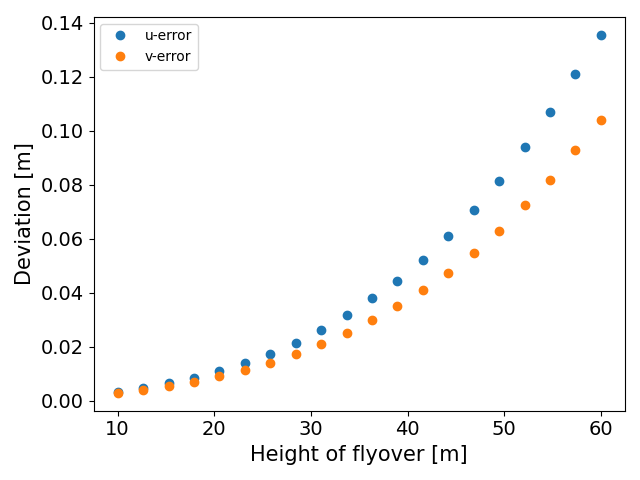
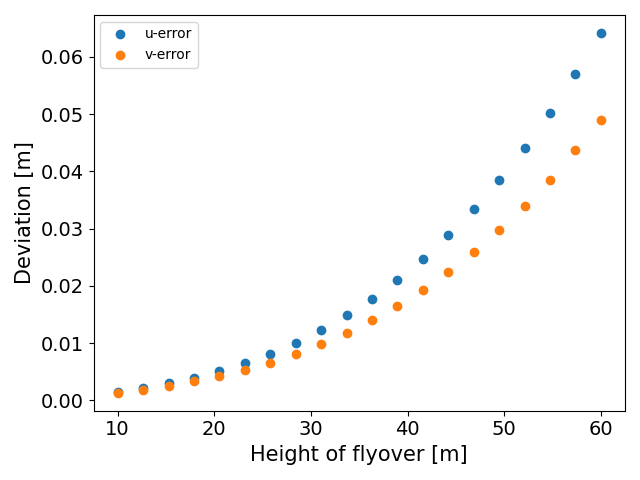
Relation between deviation and parameters

diff --git a/report_code/devToPars3D.py b/report_code/devToPars3D.py
@@ -20,13 +20,7 @@ def comp3D(radiation, detector, source, option1, option2):
     
     fig, ax = plt.subplots(subplot_kw={"projection": "3d"})
 
-    I, J = np.meshgrid(I, J)
-
-    print(I)
-    print('\n')
-    print(J)
-    print('\n')
-    print(dus)
+    J, I = np.meshgrid(J, I)
 
     # Plot the surface.
     surf = ax.plot_surface(I, J, dus, cmap=cm.coolwarm, linewidth=0, antialiased=False)
@@ -37,7 +31,15 @@ def comp3D(radiation, detector, source, option1, option2):
     # Add a color bar which maps values to colors.
     fig.colorbar(surf, shrink=0.5, aspect=5)
 
+    plt.tight_layout()
     plt.show()
+
+    # # Test out if the graph is in accordance to the two-dimensional graphs in devToPars.py
+    # plt.plot(option2['range'], dus[-1], "o") # index selectas at which height you want the graph
+
+    # plt.title("Test")
+    # plt.tight_layout
+    # plt.show()
 
 testSource = point_source(X/2, Y/2, A_max, A_max, r0_max, r0_max)
 testSource = [-14.47, -8.73, 15000, 50]
@@ -46,7 +48,7 @@ print("A0 [Bq]:", testSource[-2], "r0 [m]:", testSource[-1])
 
 option_K = {'range': np.linspace(0, 0.8, 20), 'name': 'detector_constant', 'xlabel': "Detector coefficient []", 'saveAs': 'err_K.png'}
 option_h = {'range': np.linspace(10, 60, 20), 'name': 'h', 'xlabel': "Height of flyover [m]", 'saveAs': 'err_h.png'}
-option_dt = {'range': np. linspace(1, 60, 20), 'name': 'dt', 'xlabel': "Time of measurement at each grid point [s]", 'saveAs': 'err_dt.png'}
+option_dt = {'range': np. linspace(1, 60, 20), 'name': 'dt', 'xlabel': "Measurement duration [s]", 'saveAs': 'err_dt.png'}
 
 comp3D(radiation, detector, testSource, option_h, option_dt)
 # comp3D(radiation, detector, testSource, option_K, option_dt)

diff --git a/report_code/devToPars.py b/report_code/devToPars.py
@@ -10,6 +10,8 @@ def comp(radiation, detector, source, option):
     I = option['range']
     dus = []
     dvs = []
+    # default values
+    detector['detector_constant'] = 0.1; detector['h'] = 20; detector['dt'] = 20
     for i in I:
         detector[option['name']] = i
         data = combination(radiation, detector, flyover, locationCF, source)
@@ -30,14 +32,14 @@ def comp(radiation, detector, source, option):
     plt.show()
 
 testSource = point_source(X/2, Y/2, A_max, A_max, r0_max, r0_max)
-testSource = [-8.73, -14.47, 15000, 50]
+testSource = [-14.47, -8.73, 15000, 50]
 print("u [m]:", testSource[0], "v [m]:", testSource[1])
 print("A0 [Bq]:", testSource[-2], "r0 [m]:", testSource[-1])
 
 option_K = {'range': np.linspace(0, 0.8, 20), 'name': 'detector_constant', 'xlabel': "Detector coefficient []", 'saveAs': 'err_K.png'}
 option_h = {'range': np.linspace(10, 60, 20), 'name': 'h', 'xlabel': "Height of flyover [m]", 'saveAs': 'err_h.png'}
-option_dt = {'range': np. linspace(1, 60, 20), 'name': 'dt', 'xlabel': "Time of measurement at each grid point [s]", 'saveAs': 'err_dt.png'}
+option_dt = {'range': np. linspace(1, 60, 20), 'name': 'dt', 'xlabel': "Measurement duration [s]", 'saveAs': 'err_dt.png'}
 
-comp(radiation, detector, testSource, option_K)
-comp(radiation, detector, testSource, option_h)
+# comp(radiation, detector, testSource, option_K)
+# comp(radiation, detector, testSource, option_h)
 comp(radiation, detector, testSource, option_dt)

diff --git a/report_code/devToParsErrBar.py b/report_code/devToParsErrBar.py
@@ -10,6 +10,8 @@ def comp(radiation, detector, n_sims, option):
     I = option['range']
     dus = {}; dvs = {}
     X = detector['width']; Y = detector['height']
+    # default values
+    detector['detector_constant'] = 0.1; detector['h'] = 20; detector['dt'] = 20 
     for i in I:
         dus0 = []; dvs0 = []
         for x in np.linspace(-X/2, X/2, n_sims):
@@ -25,6 +27,9 @@ def comp(radiation, detector, n_sims, option):
     plt.errorbar(list(I), [dus[key][0] for key in dus], yerr = [dus[key][1] for key in dus], fmt = '.', label = "u-error")
     plt.errorbar(list(I), [dvs[key][0] for key in dvs], yerr = [dvs[key][1] for key in dvs], fmt = ".", label = "v-error")
 
+    # plt.plot(list(I), [dus[key][0] for key in dus], "o", label = "u-error")
+    # plt.plot(list(I), [dvs[key][0] for key in dvs], "o", label = "v-error")
+    
     plt.xlabel(option['xlabel'], fontsize = 15)
     plt.xticks(fontsize = 14)
     plt.ylabel("Source location deviation [m]", fontsize = 15)
@@ -32,7 +37,7 @@ def comp(radiation, detector, n_sims, option):
 
     plt.legend()
     plt.tight_layout()
-    plt.savefig("images/" + option["saveAs"])
+    # plt.savefig("images/" + option["saveAs"])
     plt.show()
 
 option_K = {'range': np.linspace(0, 0.8, 10), 'name': 'detector_constant', 'xlabel': "Detector coefficient []", 'saveAs': "err_Kbar.png"}
